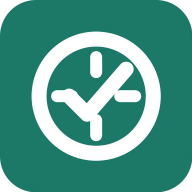
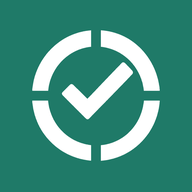
feat: add native brand assets

diff --git a/public/index.html b/public/index.html
@@ -18,7 +18,7 @@
     <meta name="twitter:card" content="summary_large_image" />
     <link rel="manifest" href="/technicalEvaluation/manifest.json" />
     <link rel="icon" href="/technicalEvaluation/favicon.svg" type="image/svg+xml" />
-    <meta name="theme-color" content="#1E7A68" />
+    <meta name="theme-color" content="#1F7A68" />
     <!-- The `react-native-web` recommended style reset: https://necolas.github.io/react-native-web/docs/setup/#root-element -->
     <style id="expo-reset">
       /* These styles make the body full-height */

diff --git a/docs/superpowers/plans/2026-07-26-native-brand-assets.md b/docs/superpowers/plans/2026-07-26-native-brand-assets.md
@@ -24,13 +24,13 @@
 - Create: `scripts/verify-native-assets.mjs`
 - Modify: `package.json`
 
-- [ ] **Step 1: Add the verifier and package script**
+- [x] **Step 1: Add the verifier and package script**
 
 Check Expo icon, iOS icon, Android icon, adaptive foreground, monochrome image,
 and splash image paths. Read PNG headers to require 1024x1024 native masters and
 alpha-capable color types for transparent assets.
 
-- [ ] **Step 2: Run the verifier and confirm failure**
+- [x] **Step 2: Run the verifier and confirm failure**
 
 Run: `npm run verify:assets`
 
@@ -46,17 +46,17 @@ Expected: FAIL because the native asset configuration is not present.
 - Modify: `public/icon-192.png`
 - Modify: `public/icon-512.png`
 
-- [ ] **Step 1: Generate the full application icon**
+- [x] **Step 1: Generate the full application icon**
 
 Use the built-in ImageGen tool with the approved geometric ring-and-check
 direction and no text.
 
-- [ ] **Step 2: Generate a chroma-key foreground**
+- [x] **Step 2: Generate a chroma-key foreground**
 
 Generate the same mark on a flat magenta background, remove the key locally,
 and verify transparent corners and safe-zone padding.
 
-- [ ] **Step 3: Derive remaining assets**
+- [x] **Step 3: Derive remaining assets**
 
 Create monochrome and splash assets from the foreground silhouette, and resize
 the full icon for Web/PWA.
@@ -66,17 +66,17 @@ the full icon for Web/PWA.
 **Files:**
 - Modify: `app.json`
 
-- [ ] **Step 1: Configure native icon and splash paths**
+- [x] **Step 1: Configure native icon and splash paths**
 
 Add top-level, iOS, Android, adaptive, monochrome, and splash configuration.
 
-- [ ] **Step 2: Run focused verification**
+- [x] **Step 2: Run focused verification**
 
 Run: `npm run verify:assets`
 
 Expected: PASS.
 
-- [ ] **Step 3: Run full verification**
+- [x] **Step 3: Run full verification**
 
 Run:
 

diff --git a/README.md b/README.md
@@ -4,7 +4,7 @@
 
 [![CI](https://github.com/KevinChen-1220/technicalEvaluation/actions/workflows/ci.yml/badge.svg)](https://github.com/KevinChen-1220/technicalEvaluation/actions/workflows/ci.yml)
 [![Pages](https://github.com/KevinChen-1220/technicalEvaluation/actions/workflows/pages.yml/badge.svg)](https://github.com/KevinChen-1220/technicalEvaluation/actions/workflows/pages.yml)
-[![License: MIT](https://img.shields.io/badge/License-MIT-1E7A68.svg)](LICENSE)
+[![License: MIT](https://img.shields.io/badge/License-MIT-1F7A68.svg)](LICENSE)
 [![Expo SDK 53](https://img.shields.io/badge/Expo-SDK%2053-000020.svg?logo=expo)](https://expo.dev/)
 [![TypeScript](https://img.shields.io/badge/TypeScript-5.8-3178C6.svg?logo=typescript&logoColor=white)](https://www.typescriptlang.org/)
 

diff --git a/docs/superpowers/specs/2026-07-26-native-brand-assets-design.md b/docs/superpowers/specs/2026-07-26-native-brand-assets-design.md
@@ -14,7 +14,7 @@ remains recognizable at small launcher-icon sizes.
 - Primary green: `#1F7A68`
 - Deep ink: `#17232C`
 - Splash background: `#F4F7F2`
-- Mark color: white
+- Mark color: white on launcher icons; primary green on the light splash screen
 - No text, letters, gradients, shadows, thin lines, or detailed illustration
 - Keep the important mark inside the Android adaptive-icon safe zone
 
